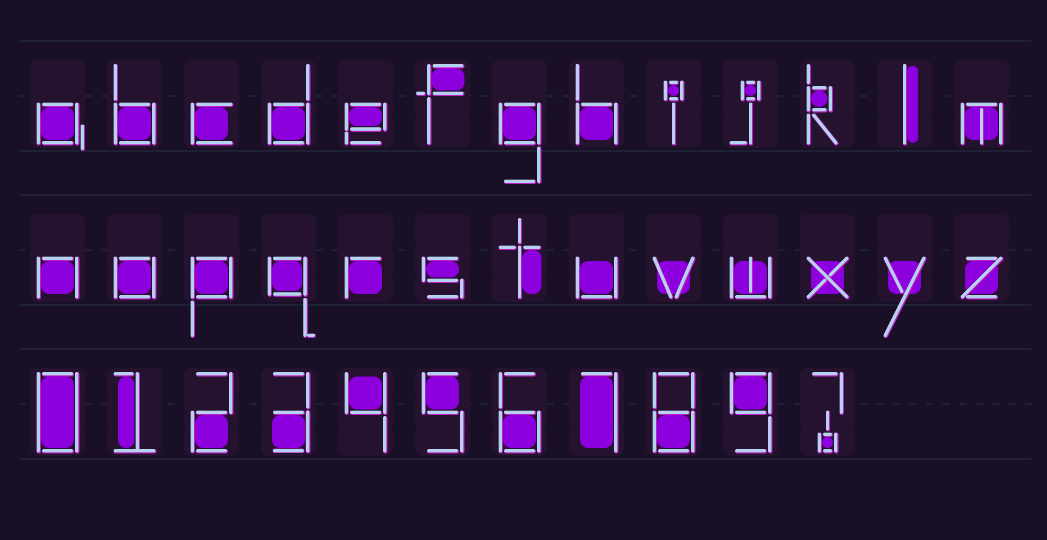
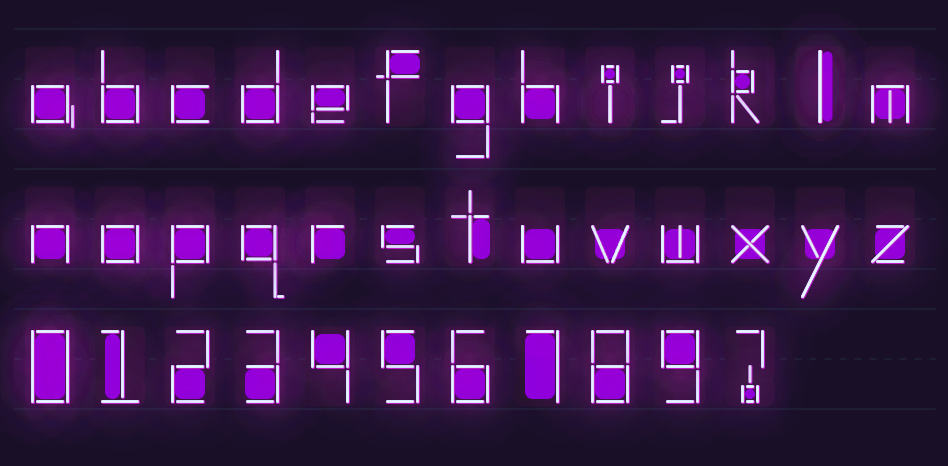
Updated readme for neon and innerline

Changed region(s): [[0.0, 0.0901, 0.9789, 0.9013]]

diff --git a/README.md b/README.md
@@ -1,6 +1,6 @@
 ## MDDN 242 2023 Assignment 2
 
-For my alphabet design, each of my letters is created in lowercase using three lines and a custom rectangle function. The three lines are controlled by six x, y points using twelve parameters, while the rectangle function is controlled by six parameters. These parameters include the position (x, y), width, height, number of edges to draw, and the drawing order for those edges (either clockwise or counterclockwise). The rectangle function also draws a filled-in rectangle inside the edges. This rectangle is always drawn, but in most cases, it is used to fill an inner region of the letter, such as the inside of 'a' or 'p'. Additionally, each line/edge drawn features a shadow to the lower right. Finally, each letter is drawn over a fixed background of three rounded rectangles with an overlapping region.
+For my alphabet design, each of my letters is created in lowercase using three lines and a custom rectangle function. The three lines are controlled by six x, y points using twelve parameters, while the rectangle function is controlled by six parameters. These parameters include the position (x, y), width, height, number of edges to draw, and the drawing order for those edges (either clockwise or counterclockwise). All of these lines and edges have a shadowBlur effect applied to make them look like neon lights. The rectangle function also draws a filled-in rectangle inside the edges. This rectangle is always drawn, but in most cases, it is used to fill an inner region of the letter, such as the inside of 'a' or 'p'. Additionally, each line/edge drawn features a shadow to the lower right. Finally, each letter is drawn over a fixed background of three rounded rectangles with an overlapping region. It should also be noted that in the exhibition there are additional rectangles that fade into the background as they get further from the glowing letters
 
 By utilising a combination of edges on the rectangle and three lines, my design is capable of recreating all the required letters and numbers in multiple ways.
 
@@ -70,7 +70,7 @@ To solve this, I created a rectangle function that could be turned on or off wit
 ### Part 2: Design the Alphabet
 I wanted to have an incredible amount of flexibility to create all kinds of symbols while still ensuring they remained very legible. Therefore, I decided to continue developing my block lines design. Initially, I felt that the lines alone were too plain, so I introduced a splash of colour by incorporating a filled-in rectangle for the inner regions of the letters. My intention was to create visible spacing between the lines, accentuating the edges of each line. Given the curved nature of the lines, I maintained consistency with the design's mood by curving the inner rectangle as well.
 
-This design was effective until I reached the letter 'f'. Here, I needed five lines without a full rectangle. To accommodate this, I adjusted the rectangle toggle to correlate with the line count. This approach served well until I encountered the number '3'. This character required drawing the edges of the rectangle in a specific order, as the initial line drawn was on the left, needing to remain empty for the '3' shape. To address this, I introduced a parameter to control the sequence of line drawing.
+This design was effective until I reached the letter 'f'. Here, I needed five lines without a full rectangle. To accommodate this, I adjusted the rectangle toggle to correlate with the edge count. This approach served well until I encountered the number '3'. This character required drawing the edges of the rectangle in a specific order, as the initial line drawn was on the left, needing to remain empty for the '3' shape. To address this, I introduced a parameter to control the sequence of line drawing.
 
 I had decided that letters with parts that hang over the "baseline" should extend outside the bounding box. I made this decision because my text is in lowercase, and it would appear incorrect for letters like 'b' and 'p' to start at the same height.
 
@@ -109,9 +109,9 @@ The nineteen parameters at this point are:
 
 While working on interpolation development, handling the interpolation of the three lines was straightforward. I used the map function with percentage and coordinate values to smoothly transition between old and new objects.
 
-However, I encountered challenges with the rectangle drawing function I created. The problem arose because the rectangle's edges were drawn in relation to a single x, y coordinate. This made it difficult to interpolate individual points along the edges, only allowing for the entire rectangle to be smoothly transitioned. Additionally, changing the number of edges led to abrupt animations, where edges suddenly appeared or disappeared, unlike the smooth transitions of the individual lines.
+However, I encountered challenges with the rectangle drawing function. The problem was the rectangle's edges were drawn in relation to a single x, y coordinate. This made it difficult to interpolate individual points along the edges, only allowing for the entire rectangle to be smoothly transitioned. Additionally, changing the number of edges led to abrupt animations, where edges suddenly appeared or disappeared, unlike the smooth transitions of the individual lines.
 
-To solve this, I first tried using lambdas to override the draw function during interpolation. But this approach clashed with the project's guidelines. So, I took an alternate approach. I stored the percentage value and used an if condition while drawing the rectangle. If the percent value was not zero, I used a separate function to smoothly move the edges toward the center of the filled-in rectangle as the percentage reached 50. At 50%, the edges converged and disappeared, coinciding with a change in the number of edges. Then, as the percent value increased from 50 to 100, the new number of edges smoothly moved to their respective positions. This results in the rectangle helping to maintain a consistent letter shape during transitions, while the lines can then build on this, creating interesting variations of the same overall movement.
+To solve this, I first tried using lambdas to override the draw function during interpolation. But this approach clashed with the project's guidelines. So, I took an alternate approach. I stored the percentage value and used an if condition while drawing the rectangle. If the percent value was not zero, I then used a separate function to smoothly move the edges toward the center of the filled-in rectangle as the percentage reached 50. At 50%, the edges converged and disappeared, coinciding with a change in the number of edges. Then, as the percent value increased from 50 to 100, the new number of edges smoothly moved to their respective positions. This results in the rectangle helping to maintain a consistent letter shape during transitions, while the lines can then build on this, creating interesting variations of the same overall movement.
 
 ##### Interpolation when function complete:
 ![interpolation complete](assets/interpolate.png)
@@ -148,4 +148,21 @@ Another experiment I conducted involved attempting to create contrast by drawing
 
 ![linecontrast](assets/linecontrast.png)
 
-Finally I wanted to showcase multiple colour palettes, as I found myself liking more than one. The idea was to change the colours as words were interpolated, effectively enhancing visual variety. However, upon reviewing the template provided, it became clear that this approach was not feasible since this would cause the background to change colour when a single letter changed. So, instead, I enabled manual changes using HTML as well as create a new text colour palette here to showcase my font in a normal colour setting for digital text.
+I then wanted to showcase multiple colour palettes, as I found myself liking more than one. The idea was to change the colours as words were interpolated, effectively enhancing visual variety. However, upon reviewing the template provided, it became clear that this approach was not feasible since this would cause the background to change colour when a single letter changed. So, instead, I enabled manual changes using HTML as well as created a new text colour palette to showcase my font in a normal text environment.
+
+##### Text Design:
+![text](assets/text.png)
+
+My final addition was a neon glow and a thin white line in the very center of each line. This addition provided the final level of detail I was aiming for. The neon effect serves to illuminate each letter in contrast to the background, while the inner line helps create depth for each line, enhancing the 3D effect.
+
+I experimented with different levels of this neon effect. However, due to how I implemented my interpolation method (with unused lines being drawn on top of other lines) and how the neon effect works (multiple lines drawn on top of one another increase the intensity of the effect), it resulted in some lines having a much more pronounced effect than others. This is particularly noticeable with the letter 'l'.
+
+This dilemma led me to decide whether to keep my current design with interesting and distinct interpolations or to avoid drawing all unused lines, ensuring that all lines on a letter have the same level of neon effect. I chose to retain the current interpolations as they are a significant part of my design, and altering them would make the piece appear rather dull. This choice adds a touch of realism, as in the real world, not all lights shine equally, with some lights having a brighter glow than others.
+
+While this addition may not complement the honeypot theme, I chose to retain it in the HTML as it represents the first colour palette iteration. To accommodate this addition, I made adjustments to the current colour theme configurations. This allows me to adjust or remove these elements for both the text and honeypot themes. These configurations are solely intended for showcasing the design in different settings and should not be considered parameters for the design, as they are not included in letter.js.
+
+##### Neon Designs:
+![neonsynth1](assets/neonsynth1.png)
+![neonsynth2](assets/neonsynth2.png)
+![neonsynth3](assets/neonsynth3.png)
+![neontext](assets/neontext.png)
